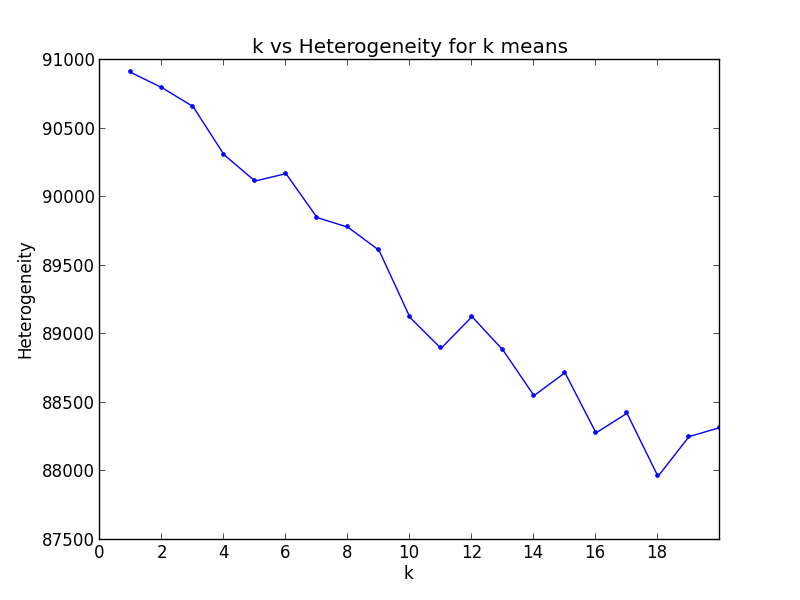
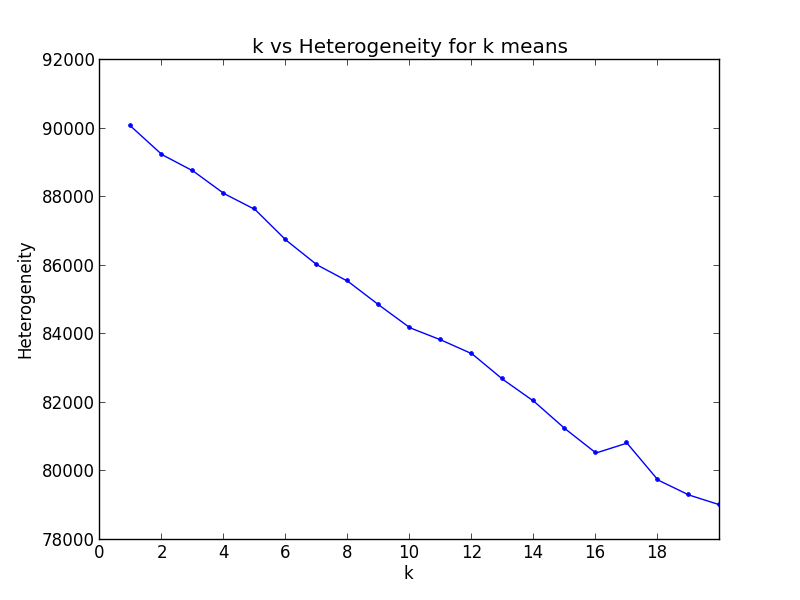
sunday stuff

diff --git a/plot_clusters.py b/plot_clusters.py
@@ -1,0 +1,44 @@
+import numpy as np
+import pandas as pd
+import k_means
+import spectral
+import sys
+from matplotlib import pyplot as plt
+from mpl_toolkits.mplot3d import Axes3D
+
+def main():
+    try:
+        k = int(sys.argv[1])
+    except IndexError:
+        print "Usage: python plot_clusters.py <k>"
+    colors = ['#000000', '#00FF00', '#0000FF', '#FF0000', '#01FFFE', '#FFA6FE', '#FFDB66', '#006401', 
+'#010067', '#95003A', '#007DB5', '#FF00F6', '#FFEEE8', '#774D00', '#90FB92', '#0076FF', '#D5FF00',
+'#FF937E', '#6A826C', '#FF029D', '#FE8900', '#7A4782', '#7E2DD2', '#85A900', '#FF0056', '#A42400',
+'#00AE7E', '#683D3B', '#BDC6FF', '#263400', '#BDD393', '#00B917', '#9E008E', '#001544', '#C28C9F',
+'#FF74A3', '#01D0FF', '#004754', '#E56FFE', '#788231', '#0E4CA1', '#91D0CB', '#BE9970', '#968AE8', 
+'#BB8800', '#43002C', '#DEFF74', '#00FFC6', '#FFE502', '#620E00', '#008F9C', '#98FF52', '#7544B1', 
+'#B500FF', '#00FF78', '#FF6E41', '#005F39', '#6B6882', '#5FAD4E', '#A75740', '#A5FFD2', '#FFB167', 
+'#009BFF', '#E85EBE']
+    train = pd.read_pickle("tfidf_medium_large.pkl")    
+    PCA_eigens = spectral.computeEigen(np.cov(train.values), 3)
+
+    cluster_centers, cluster_idx = k_means.cluster(train.values, k)
+    fig = plt.figure(1)
+    ax = fig.add_subplot(111, projection = '3d')
+    plt.title("Clusters using k means using k = " + str(k))
+    for i in range(0, PCA_eigens.shape[0], 10):
+        ax.scatter(PCA_eigens[i, 0], PCA_eigens[i,1], PCA_eigens[i,2], c = colors[cluster_idx[i] % len(colors)])
+    plt.savefig("cluster_k_means_ml3D.png")
+
+    laplac = spectral.setup(train)
+    eig = spectral.computeEigen(laplac, k)
+    cluster_centers, cluster_idx = spectral.cluster(eig, k)
+    fig = plt.figure(2)
+    ax = fig.add_subplot(111, projection = '3d')
+    plt.title("Clusters using spectral clustering using k = " + str(k))
+    for i in range(0, PCA_eigens.shape[0], 10):
+        ax.scatter(PCA_eigens[i, 0], PCA_eigens[i,1], PCA_eigens[i,2], c = colors[cluster_idx[i] % len(colors)])
+    plt.savefig("cluster_spectral_ml3D.png")
+
+if __name__ == "__main__":
+    main()

diff --git a/Heterogeneity.py b/Heterogeneity.py
@@ -21,6 +21,7 @@ def main():
     ks = range(1,21)
     spectral_laplacian = spectral.setup(train)
     for k in ks:
+        k = k * 5
         print "k: " + str(k)
         bestSSD_k_means = sys.maxint
         bestSSD_spectral = sys.maxint
@@ -34,8 +35,8 @@ def main():
             if ssd_k_means < bestSSD_k_means:
                 bestSSD_k_means = ssd_k_means
             print "Spectral"
-            cluster_center_spectral, cluster_idx_spectral, eigen_vectors = spectral.cluster(spectral_eigen, k)
-            ssd_spectral = SSD(eigen_vectors, cluster_center_spectral, cluster_idx_spectral)
+            cluster_center_spectral, cluster_idx_spectral = spectral.cluster(spectral_eigen, k)
+            ssd_spectral = SSD(spectral_eigen, cluster_center_spectral, cluster_idx_spectral)
             if ssd_spectral < bestSSD_spectral:
                 bestSSD_spectral = ssd_spectral
         # append best ssd

diff --git a/spectral.py b/spectral.py
@@ -37,15 +37,18 @@ def computeLaplacian(affinity, degree):
 
 # returns the first k eigen vectors of the laplacian matrix
 def computeEigen(laplacian, k):
+    print laplacian.shape
     U, S, V = np.linalg.svd(laplacian)
-
+    print U.shape
+    print S.shape
+    print V.shape
     result = U[:,:k]
     return result
 
 def cluster(U, k):
     # run k_means
     k_means_result = k_means.cluster(U, k)
-    return (k_means_result[0], k_means_result[1], U)
+    return k_means_result
 
 def setup(train):
     # affinity matrix, is numpy array
